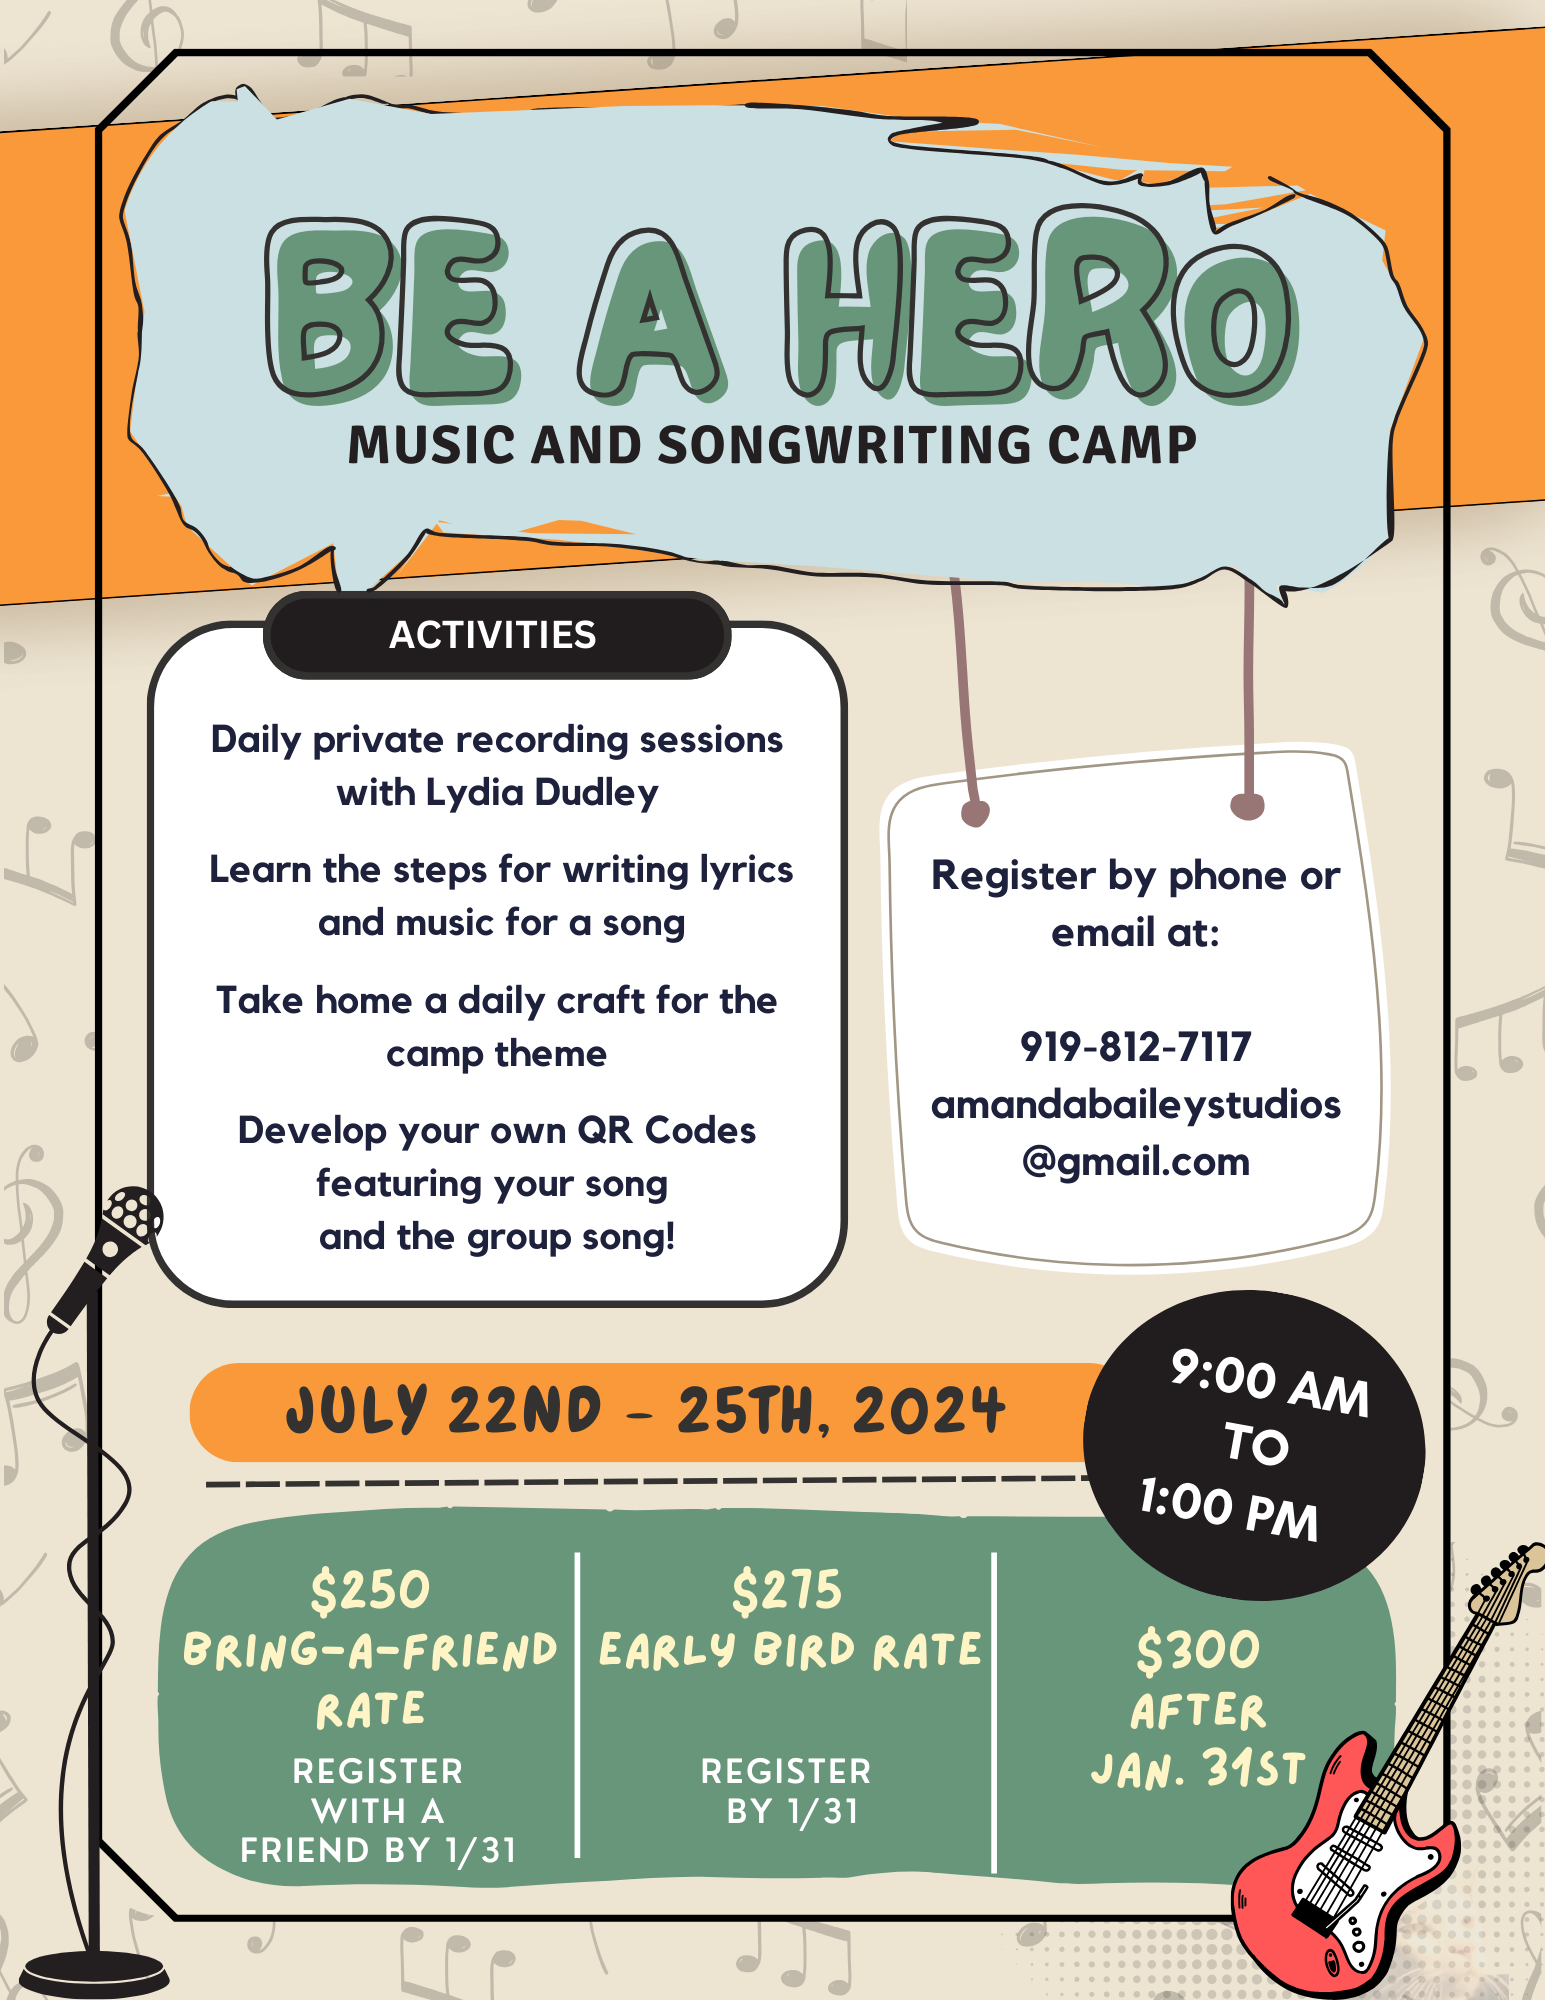
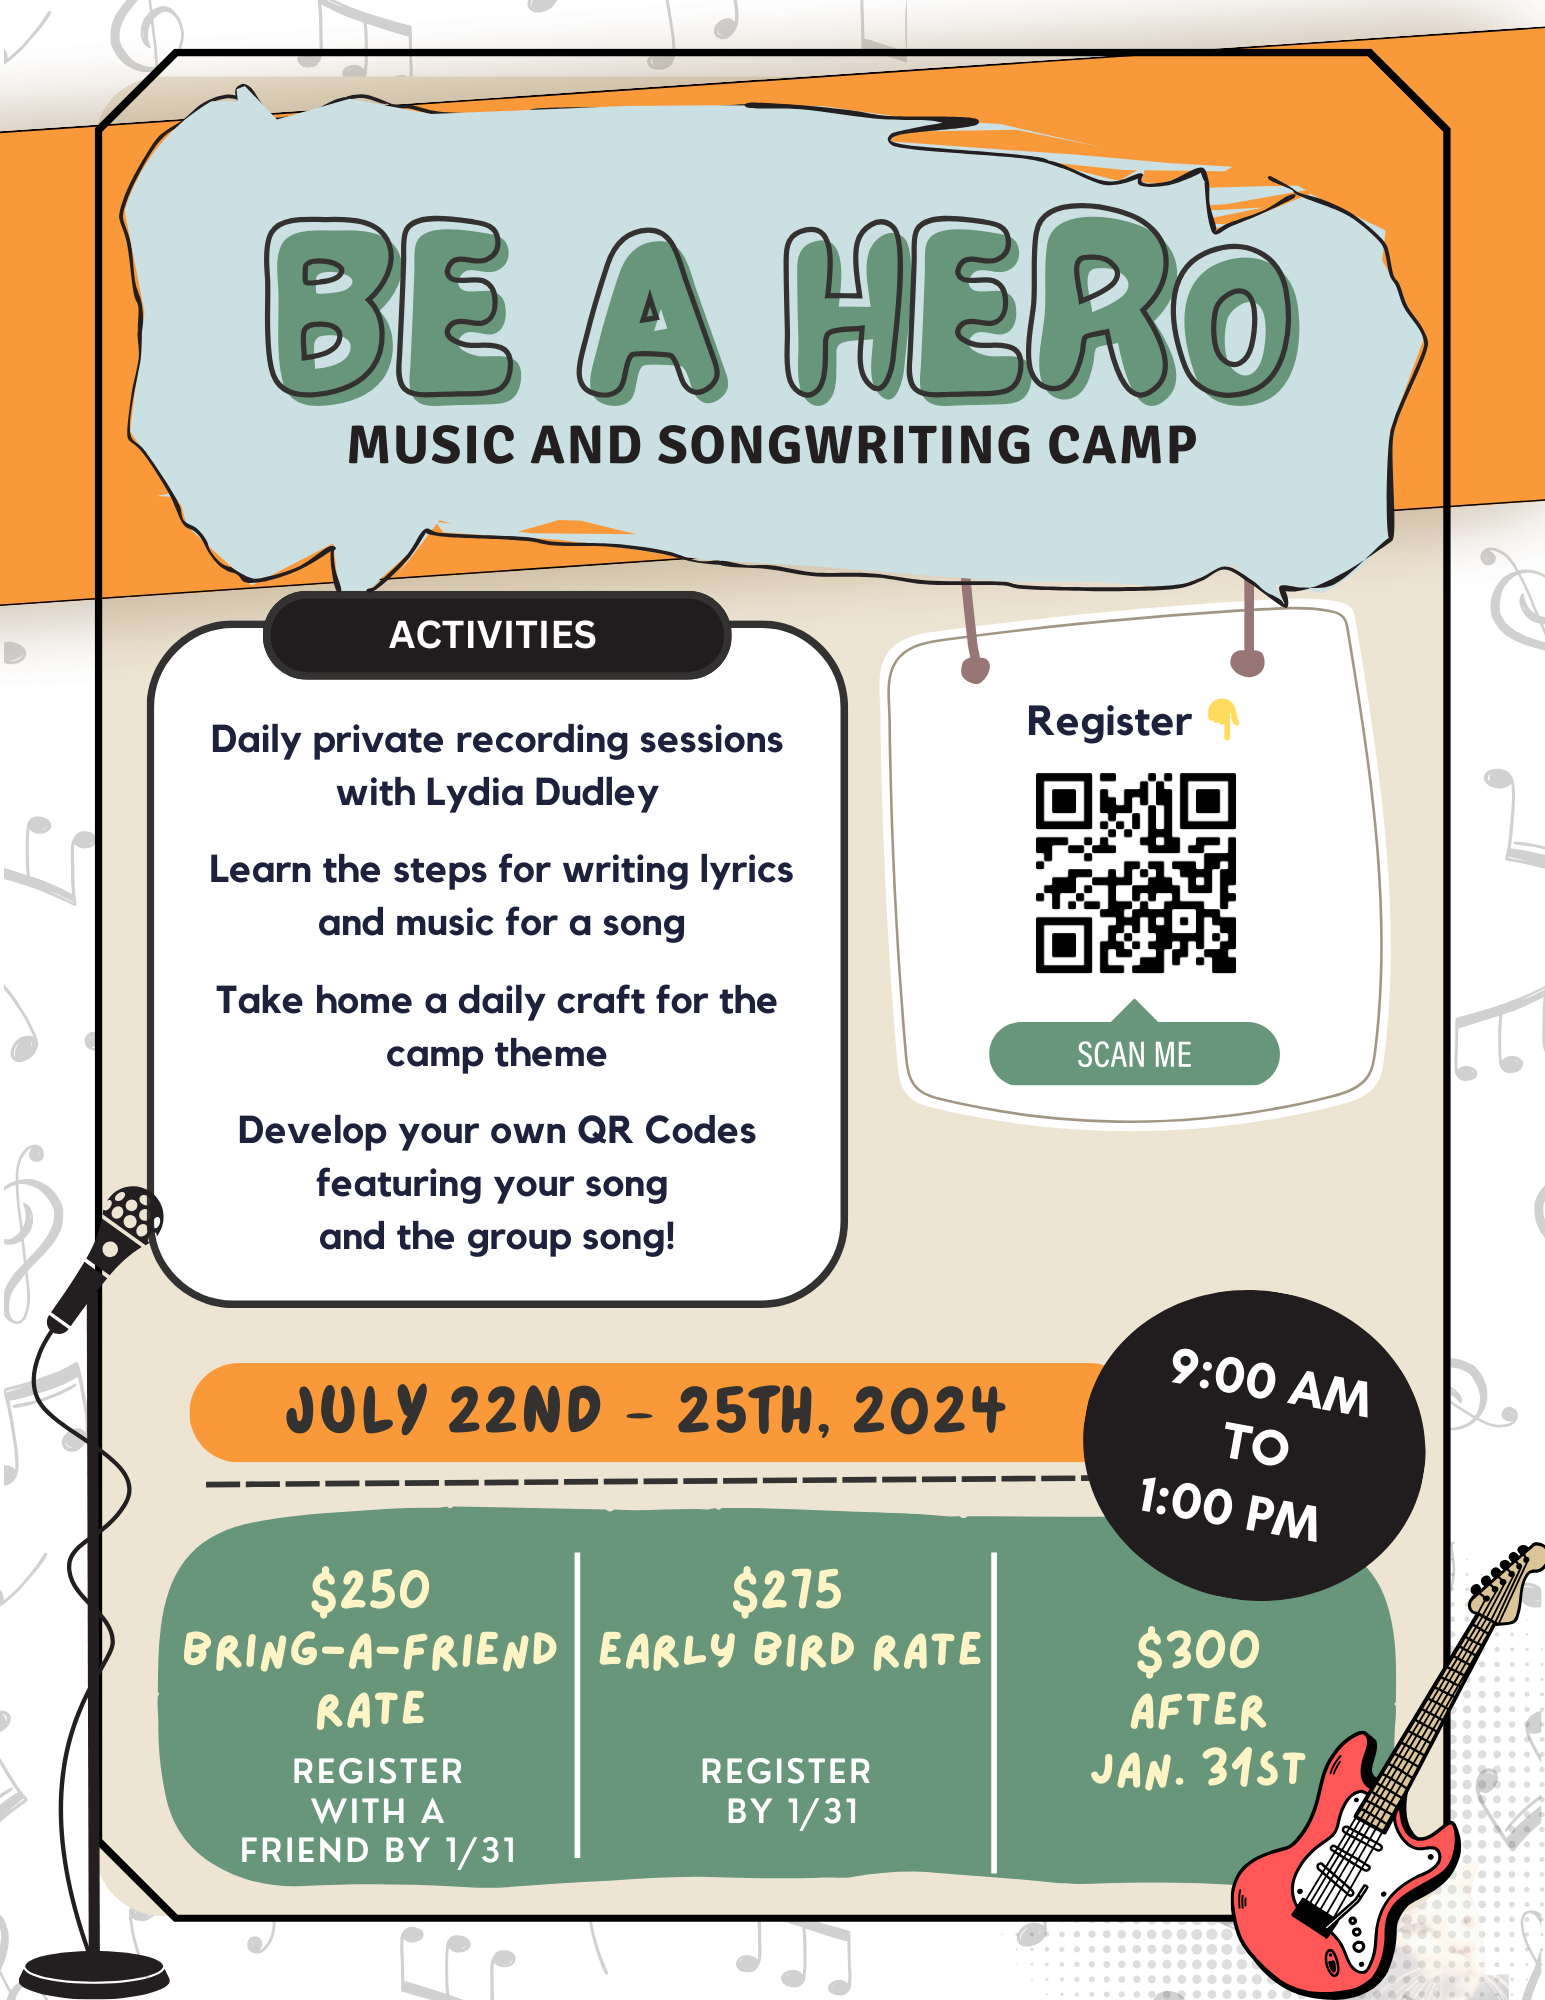
replaced pdfs with pngs

Changed region(s): [[0.0, 0.248, 1.0, 1.0], [0.5592, 0.279, 0.901, 0.651], [0.0, 0.0, 1.0, 0.062]]

diff --git a/index.html b/index.html
@@ -51,13 +51,13 @@
         <section id="camps" class="camps-section text-center">
             <div class="container my-5"></div>
             <div class="justify-content-center align-items-center" id="camps_container" style="padding: 0; margin: 0; width: 100%;">
-                <img src="./static/images/be-a-hero.pdf" style="margin: 0; padding: 0; object-fit: cover; width: 100%;"></img>
+                <img src="./static/images/be-a-hero.png" style="margin: 0; padding: 0; object-fit: cover; width: 100%;"></img>
             </div> 
             <div class="justify-content-center align-items-center" id="camps_container" style="padding: 0; margin: 0; width: 100%;">
                 <div class="container py-4"></div>
             </div> 
             <div class="justify-content-center align-items-center" id="camps_container" style="padding: 0; margin: 0; width: 100%;">
-                <img src="./static/images/music-production.pdf" style="margin: 0; padding: 0; object-fit: cover; width: 100%;"></img>
+                <img src="./static/images/music-production.png" style="margin: 0; padding: 0; object-fit: cover; width: 100%;"></img>
             </div> 
         </section>
 
